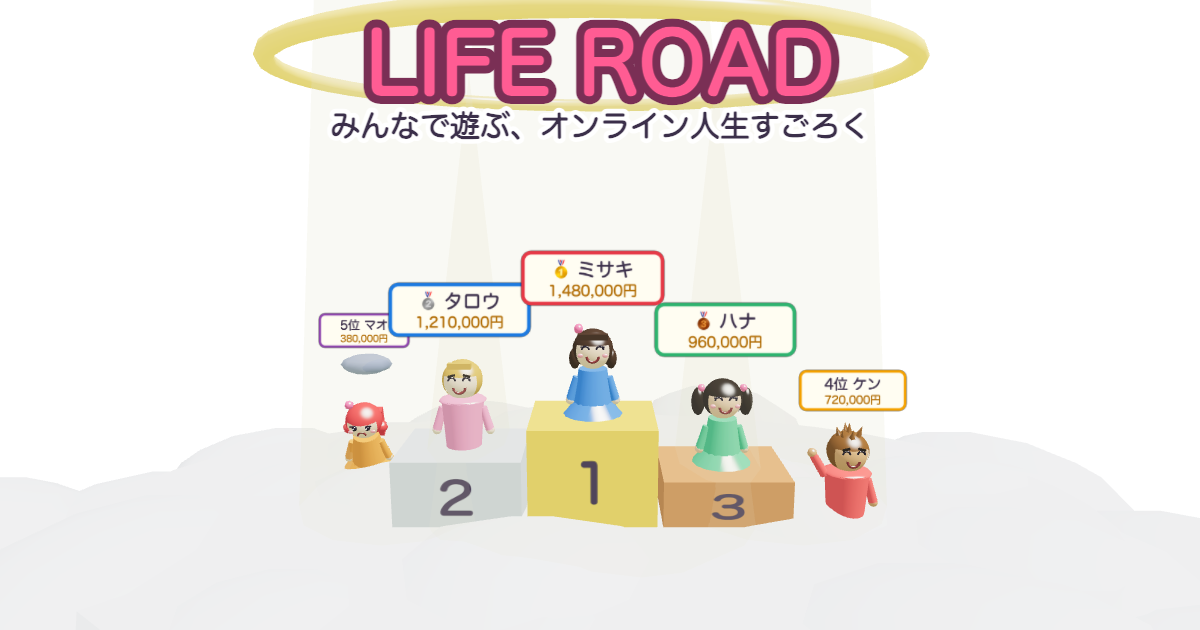
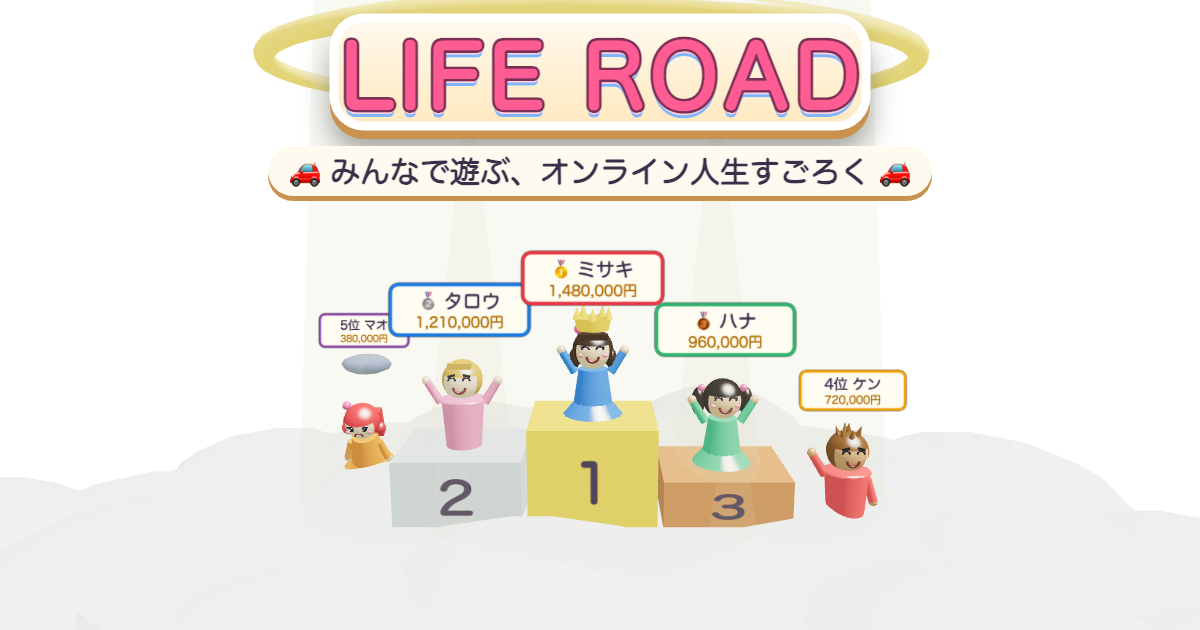
サムネ画像の文字をタイトル画面と同じデザインに。リンクのコピーでカードが閉じないように

diff --git a/index.html b/index.html
@@ -161,7 +161,7 @@ button.big{width:100%;font-size:1.15rem;padding:14px;margin:6px 0}
 @keyframes cfin{from{opacity:0;transform:translateX(-30px)}}@keyframes cfpop{0%{opacity:0;transform:scale(.3)}60%{transform:scale(1.25)}100%{transform:scale(1)}}
 .keeprow{display:flex;gap:8px;flex-wrap:wrap;justify-content:center}.keeprow .keep{flex:1 1 220px;max-width:100%}.keeprow .keep img{width:100%}
 .keep{display:block;text-align:center;margin-bottom:4px}.keep img{display:block;margin:0 auto;width:300px;max-width:100%;border-radius:14px;border:4px solid #fff;box-shadow:0 3px 10px #0003}
-.savepic{display:inline-block;margin:6px 0 2px;padding:6px 14px;border-radius:999px;background:#ff4f86;color:#fff;font-weight:900;font-size:.8rem;cursor:pointer;pointer-events:auto;box-shadow:0 3px 0 #0002}
+.copylink,.savepic{display:inline-block;margin:6px 0 2px;padding:6px 14px;border-radius:999px;background:#ff4f86;color:#fff;font-weight:900;font-size:.8rem;cursor:pointer;pointer-events:auto;box-shadow:0 3px 0 #0002}
 #podiumBar{position:fixed;left:0;right:0;bottom:0;z-index:30;padding:10px 12px calc(12px + env(safe-area-inset-bottom));text-align:center;background:linear-gradient(#fff0,#fffc 40%)}
 #podiumBar .pdt{font-weight:900;font-size:clamp(1rem,3.4vw,1.4rem);color:#3b2f4a;text-shadow:0 2px 0 #fff,0 0 8px #fff;margin-bottom:6px}
 #podiumBar .pdb{display:flex;gap:8px;justify-content:center;flex-wrap:wrap}#podiumBar button{min-width:120px}
@@ -4039,6 +4039,10 @@ document.addEventListener('click',e=>{                        // 記念の絵を
   dlURL(img.dataset.nocap?cv.toDataURL('image/png'):finishShot(cv,img.dataset.cap||''),'life-road-'+Date.now()+'.jpg');
   a.textContent='✅ 保存しました';setTimeout(()=>a.textContent='⬇ 画像を保存',1800);Sound.click();
 });
+document.addEventListener('click',e=>{                        // リンクのコピー：カードは閉じずに、その場で「コピーしました」にする
+  const a=e.target.closest&&e.target.closest('.copylink');if(!a)return;
+  copySiteLink(true);a.textContent='✅ コピーしました';setTimeout(()=>a.textContent='🔗 リンクをコピー',1800);
+});
 /* ---------- 結果のシェア：画像（4:3）・リンク・共有 ---------- */
 const lastHap=p=>{const h=G.hist&&G.hist[p.id];return h&&h.length?h[h.length-1].h:0};
 const man=v=>(Math.round(v/1000)/10).toLocaleString('en-US');
@@ -4066,20 +4070,15 @@ async function resultImage(d){                                // 結果カード
   c.textAlign='center';c.fillStyle='#887';c.font=`700 20px ${FONT}`;c.fillText('みんなで遊ぶ、オンライン人生すごろく',400,548);
   return cv;
 }
-async function copySiteLink(){
+async function copySiteLink(quiet){
   try{await navigator.clipboard.writeText(SITE_URL)}catch(e){const ta=document.createElement('textarea');ta.value=SITE_URL;ta.style.cssText='position:fixed;opacity:0';document.body.appendChild(ta);ta.select();try{document.execCommand('copy')}catch(_){}ta.remove()}
-  V.toast('リンクをコピーしました');
+  if(!quiet)V.toast('リンクをコピーしました');
 }
 async function shareResults(r){
   const d=resultData(r),url=shareURL(d),cv=await resultImage(d),img=cv.toDataURL('image/png');
   let pod='';try{if(typeof podium!=='undefined'&&podium)pod=podiumPhoto(`🏆 ${r.slice(0,3).map((p,k)=>`${k+1}位 ${p.name}`).join('　')}`)}catch(e){console.warn(e)}      // 表彰台の写真（静止ポーズ）も一緒に
   const text=`LIFE ROAD の結果！ 🏆 ${r[0].name} が優勝（${man(r[0].final)}万円）`;
-  for(;;){
-    const i=await cardLocal({head:'🔗 結果をシェア',color:'#3f8cff',wide:true,title:'みんなの結果',text:`<div class="keeprow">${pod?`<div class="keep"><img class="keepsake" data-nocap="1" src="${pod}" alt=""><a class="savepic">⬇ 表彰台を保存</a></div>`:''}<div class="keep"><img class="keepsake" data-nocap="1" src="${img}" alt=""><a class="savepic">⬇ 結果を保存</a></div></div><small>リンクをXなどに貼ると、表彰台の画像つきで表示されます。リンクを開くと、トップページが開きます</small>`,btns:['🔗 リンクをコピー','閉じる'],col:true,cpu:false},null);
-    if(i!==0)break;
-    try{await navigator.clipboard.writeText(SITE_URL)}catch(e){const ta=document.createElement('textarea');ta.value=SITE_URL;ta.style.cssText='position:fixed;opacity:0';document.body.appendChild(ta);ta.select();try{document.execCommand('copy')}catch(_){}ta.remove()}
-    V.toast('リンクをコピーしました');
-  }
+  await cardLocal({head:'🔗 結果をシェア',color:'#3f8cff',wide:true,title:'みんなの結果',text:`<div class="keeprow">${pod?`<div class="keep"><img class="keepsake" data-nocap="1" src="${pod}" alt=""><a class="savepic">⬇ 表彰台を保存</a></div>`:''}<div class="keep"><img class="keepsake" data-nocap="1" src="${img}" alt=""><a class="savepic">⬇ 結果を保存</a></div></div><div><a class="copylink">🔗 リンクをコピー</a></div><small>リンクをXなどに貼ると、表彰台の画像つきで表示されます。リンクを開くと、トップページが開きます</small>`,btns:['閉じる'],cpu:false},null);
 }
 async function showSharedResult(){                            // 結果リンクから開いたとき：表彰台のシーンで、その結果を見せる
   let d;try{d=JSON.parse(unb64u(location.hash.slice(3)))}catch(e){return}

diff --git a/src/all.js b/src/all.js
@@ -3653,6 +3653,10 @@ document.addEventListener('click',e=>{                        // 記念の絵を
   dlURL(img.dataset.nocap?cv.toDataURL('image/png'):finishShot(cv,img.dataset.cap||''),'life-road-'+Date.now()+'.jpg');
   a.textContent='✅ 保存しました';setTimeout(()=>a.textContent='⬇ 画像を保存',1800);Sound.click();
 });
+document.addEventListener('click',e=>{                        // リンクのコピー：カードは閉じずに、その場で「コピーしました」にする
+  const a=e.target.closest&&e.target.closest('.copylink');if(!a)return;
+  copySiteLink(true);a.textContent='✅ コピーしました';setTimeout(()=>a.textContent='🔗 リンクをコピー',1800);
+});
 /* ---------- 結果のシェア：画像（4:3）・リンク・共有 ---------- */
 const lastHap=p=>{const h=G.hist&&G.hist[p.id];return h&&h.length?h[h.length-1].h:0};
 const man=v=>(Math.round(v/1000)/10).toLocaleString('en-US');
@@ -3680,20 +3684,15 @@ async function resultImage(d){                                // 結果カード
   c.textAlign='center';c.fillStyle='#887';c.font=`700 20px ${FONT}`;c.fillText('みんなで遊ぶ、オンライン人生すごろく',400,548);
   return cv;
 }
-async function copySiteLink(){
+async function copySiteLink(quiet){
   try{await navigator.clipboard.writeText(SITE_URL)}catch(e){const ta=document.createElement('textarea');ta.value=SITE_URL;ta.style.cssText='position:fixed;opacity:0';document.body.appendChild(ta);ta.select();try{document.execCommand('copy')}catch(_){}ta.remove()}
-  V.toast('リンクをコピーしました');
+  if(!quiet)V.toast('リンクをコピーしました');
 }
 async function shareResults(r){
   const d=resultData(r),url=shareURL(d),cv=await resultImage(d),img=cv.toDataURL('image/png');
   let pod='';try{if(typeof podium!=='undefined'&&podium)pod=podiumPhoto(`🏆 ${r.slice(0,3).map((p,k)=>`${k+1}位 ${p.name}`).join('　')}`)}catch(e){console.warn(e)}      // 表彰台の写真（静止ポーズ）も一緒に
   const text=`LIFE ROAD の結果！ 🏆 ${r[0].name} が優勝（${man(r[0].final)}万円）`;
-  for(;;){
-    const i=await cardLocal({head:'🔗 結果をシェア',color:'#3f8cff',wide:true,title:'みんなの結果',text:`<div class="keeprow">${pod?`<div class="keep"><img class="keepsake" data-nocap="1" src="${pod}" alt=""><a class="savepic">⬇ 表彰台を保存</a></div>`:''}<div class="keep"><img class="keepsake" data-nocap="1" src="${img}" alt=""><a class="savepic">⬇ 結果を保存</a></div></div><small>リンクをXなどに貼ると、表彰台の画像つきで表示されます。リンクを開くと、トップページが開きます</small>`,btns:['🔗 リンクをコピー','閉じる'],col:true,cpu:false},null);
-    if(i!==0)break;
-    try{await navigator.clipboard.writeText(SITE_URL)}catch(e){const ta=document.createElement('textarea');ta.value=SITE_URL;ta.style.cssText='position:fixed;opacity:0';document.body.appendChild(ta);ta.select();try{document.execCommand('copy')}catch(_){}ta.remove()}
-    V.toast('リンクをコピーしました');
-  }
+  await cardLocal({head:'🔗 結果をシェア',color:'#3f8cff',wide:true,title:'みんなの結果',text:`<div class="keeprow">${pod?`<div class="keep"><img class="keepsake" data-nocap="1" src="${pod}" alt=""><a class="savepic">⬇ 表彰台を保存</a></div>`:''}<div class="keep"><img class="keepsake" data-nocap="1" src="${img}" alt=""><a class="savepic">⬇ 結果を保存</a></div></div><div><a class="copylink">🔗 リンクをコピー</a></div><small>リンクをXなどに貼ると、表彰台の画像つきで表示されます。リンクを開くと、トップページが開きます</small>`,btns:['閉じる'],cpu:false},null);
 }
 async function showSharedResult(){                            // 結果リンクから開いたとき：表彰台のシーンで、その結果を見せる
   let d;try{d=JSON.parse(unb64u(location.hash.slice(3)))}catch(e){return}

diff --git a/src/ui.js b/src/ui.js
@@ -71,6 +71,10 @@ document.addEventListener('click',e=>{                        // 記念の絵を
   dlURL(img.dataset.nocap?cv.toDataURL('image/png'):finishShot(cv,img.dataset.cap||''),'life-road-'+Date.now()+'.jpg');
   a.textContent='✅ 保存しました';setTimeout(()=>a.textContent='⬇ 画像を保存',1800);Sound.click();
 });
+document.addEventListener('click',e=>{                        // リンクのコピー：カードは閉じずに、その場で「コピーしました」にする
+  const a=e.target.closest&&e.target.closest('.copylink');if(!a)return;
+  copySiteLink(true);a.textContent='✅ コピーしました';setTimeout(()=>a.textContent='🔗 リンクをコピー',1800);
+});
 /* ---------- 結果のシェア：画像（4:3）・リンク・共有 ---------- */
 const lastHap=p=>{const h=G.hist&&G.hist[p.id];return h&&h.length?h[h.length-1].h:0};
 const man=v=>(Math.round(v/1000)/10).toLocaleString('en-US');
@@ -98,20 +102,15 @@ async function resultImage(d){                                // 結果カード
   c.textAlign='center';c.fillStyle='#887';c.font=`700 20px ${FONT}`;c.fillText('みんなで遊ぶ、オンライン人生すごろく',400,548);
   return cv;
 }
-async function copySiteLink(){
+async function copySiteLink(quiet){
   try{await navigator.clipboard.writeText(SITE_URL)}catch(e){const ta=document.createElement('textarea');ta.value=SITE_URL;ta.style.cssText='position:fixed;opacity:0';document.body.appendChild(ta);ta.select();try{document.execCommand('copy')}catch(_){}ta.remove()}
-  V.toast('リンクをコピーしました');
+  if(!quiet)V.toast('リンクをコピーしました');
 }
 async function shareResults(r){
   const d=resultData(r),url=shareURL(d),cv=await resultImage(d),img=cv.toDataURL('image/png');
   let pod='';try{if(typeof podium!=='undefined'&&podium)pod=podiumPhoto(`🏆 ${r.slice(0,3).map((p,k)=>`${k+1}位 ${p.name}`).join('　')}`)}catch(e){console.warn(e)}      // 表彰台の写真（静止ポーズ）も一緒に
   const text=`LIFE ROAD の結果！ 🏆 ${r[0].name} が優勝（${man(r[0].final)}万円）`;
-  for(;;){
-    const i=await cardLocal({head:'🔗 結果をシェア',color:'#3f8cff',wide:true,title:'みんなの結果',text:`<div class="keeprow">${pod?`<div class="keep"><img class="keepsake" data-nocap="1" src="${pod}" alt=""><a class="savepic">⬇ 表彰台を保存</a></div>`:''}<div class="keep"><img class="keepsake" data-nocap="1" src="${img}" alt=""><a class="savepic">⬇ 結果を保存</a></div></div><small>リンクをXなどに貼ると、表彰台の画像つきで表示されます。リンクを開くと、トップページが開きます</small>`,btns:['🔗 リンクをコピー','閉じる'],col:true,cpu:false},null);
-    if(i!==0)break;
-    try{await navigator.clipboard.writeText(SITE_URL)}catch(e){const ta=document.createElement('textarea');ta.value=SITE_URL;ta.style.cssText='position:fixed;opacity:0';document.body.appendChild(ta);ta.select();try{document.execCommand('copy')}catch(_){}ta.remove()}
-    V.toast('リンクをコピーしました');
-  }
+  await cardLocal({head:'🔗 結果をシェア',color:'#3f8cff',wide:true,title:'みんなの結果',text:`<div class="keeprow">${pod?`<div class="keep"><img class="keepsake" data-nocap="1" src="${pod}" alt=""><a class="savepic">⬇ 表彰台を保存</a></div>`:''}<div class="keep"><img class="keepsake" data-nocap="1" src="${img}" alt=""><a class="savepic">⬇ 結果を保存</a></div></div><div><a class="copylink">🔗 リンクをコピー</a></div><small>リンクをXなどに貼ると、表彰台の画像つきで表示されます。リンクを開くと、トップページが開きます</small>`,btns:['閉じる'],cpu:false},null);
 }
 async function showSharedResult(){                            // 結果リンクから開いたとき：表彰台のシーンで、その結果を見せる
   let d;try{d=JSON.parse(unb64u(location.hash.slice(3)))}catch(e){return}

diff --git a/src/head.html b/src/head.html
@@ -161,7 +161,7 @@ button.big{width:100%;font-size:1.15rem;padding:14px;margin:6px 0}
 @keyframes cfin{from{opacity:0;transform:translateX(-30px)}}@keyframes cfpop{0%{opacity:0;transform:scale(.3)}60%{transform:scale(1.25)}100%{transform:scale(1)}}
 .keeprow{display:flex;gap:8px;flex-wrap:wrap;justify-content:center}.keeprow .keep{flex:1 1 220px;max-width:100%}.keeprow .keep img{width:100%}
 .keep{display:block;text-align:center;margin-bottom:4px}.keep img{display:block;margin:0 auto;width:300px;max-width:100%;border-radius:14px;border:4px solid #fff;box-shadow:0 3px 10px #0003}
-.savepic{display:inline-block;margin:6px 0 2px;padding:6px 14px;border-radius:999px;background:#ff4f86;color:#fff;font-weight:900;font-size:.8rem;cursor:pointer;pointer-events:auto;box-shadow:0 3px 0 #0002}
+.copylink,.savepic{display:inline-block;margin:6px 0 2px;padding:6px 14px;border-radius:999px;background:#ff4f86;color:#fff;font-weight:900;font-size:.8rem;cursor:pointer;pointer-events:auto;box-shadow:0 3px 0 #0002}
 #podiumBar{position:fixed;left:0;right:0;bottom:0;z-index:30;padding:10px 12px calc(12px + env(safe-area-inset-bottom));text-align:center;background:linear-gradient(#fff0,#fffc 40%)}
 #podiumBar .pdt{font-weight:900;font-size:clamp(1rem,3.4vw,1.4rem);color:#3b2f4a;text-shadow:0 2px 0 #fff,0 0 8px #fff;margin-bottom:6px}
 #podiumBar .pdb{display:flex;gap:8px;justify-content:center;flex-wrap:wrap}#podiumBar button{min-width:120px}
